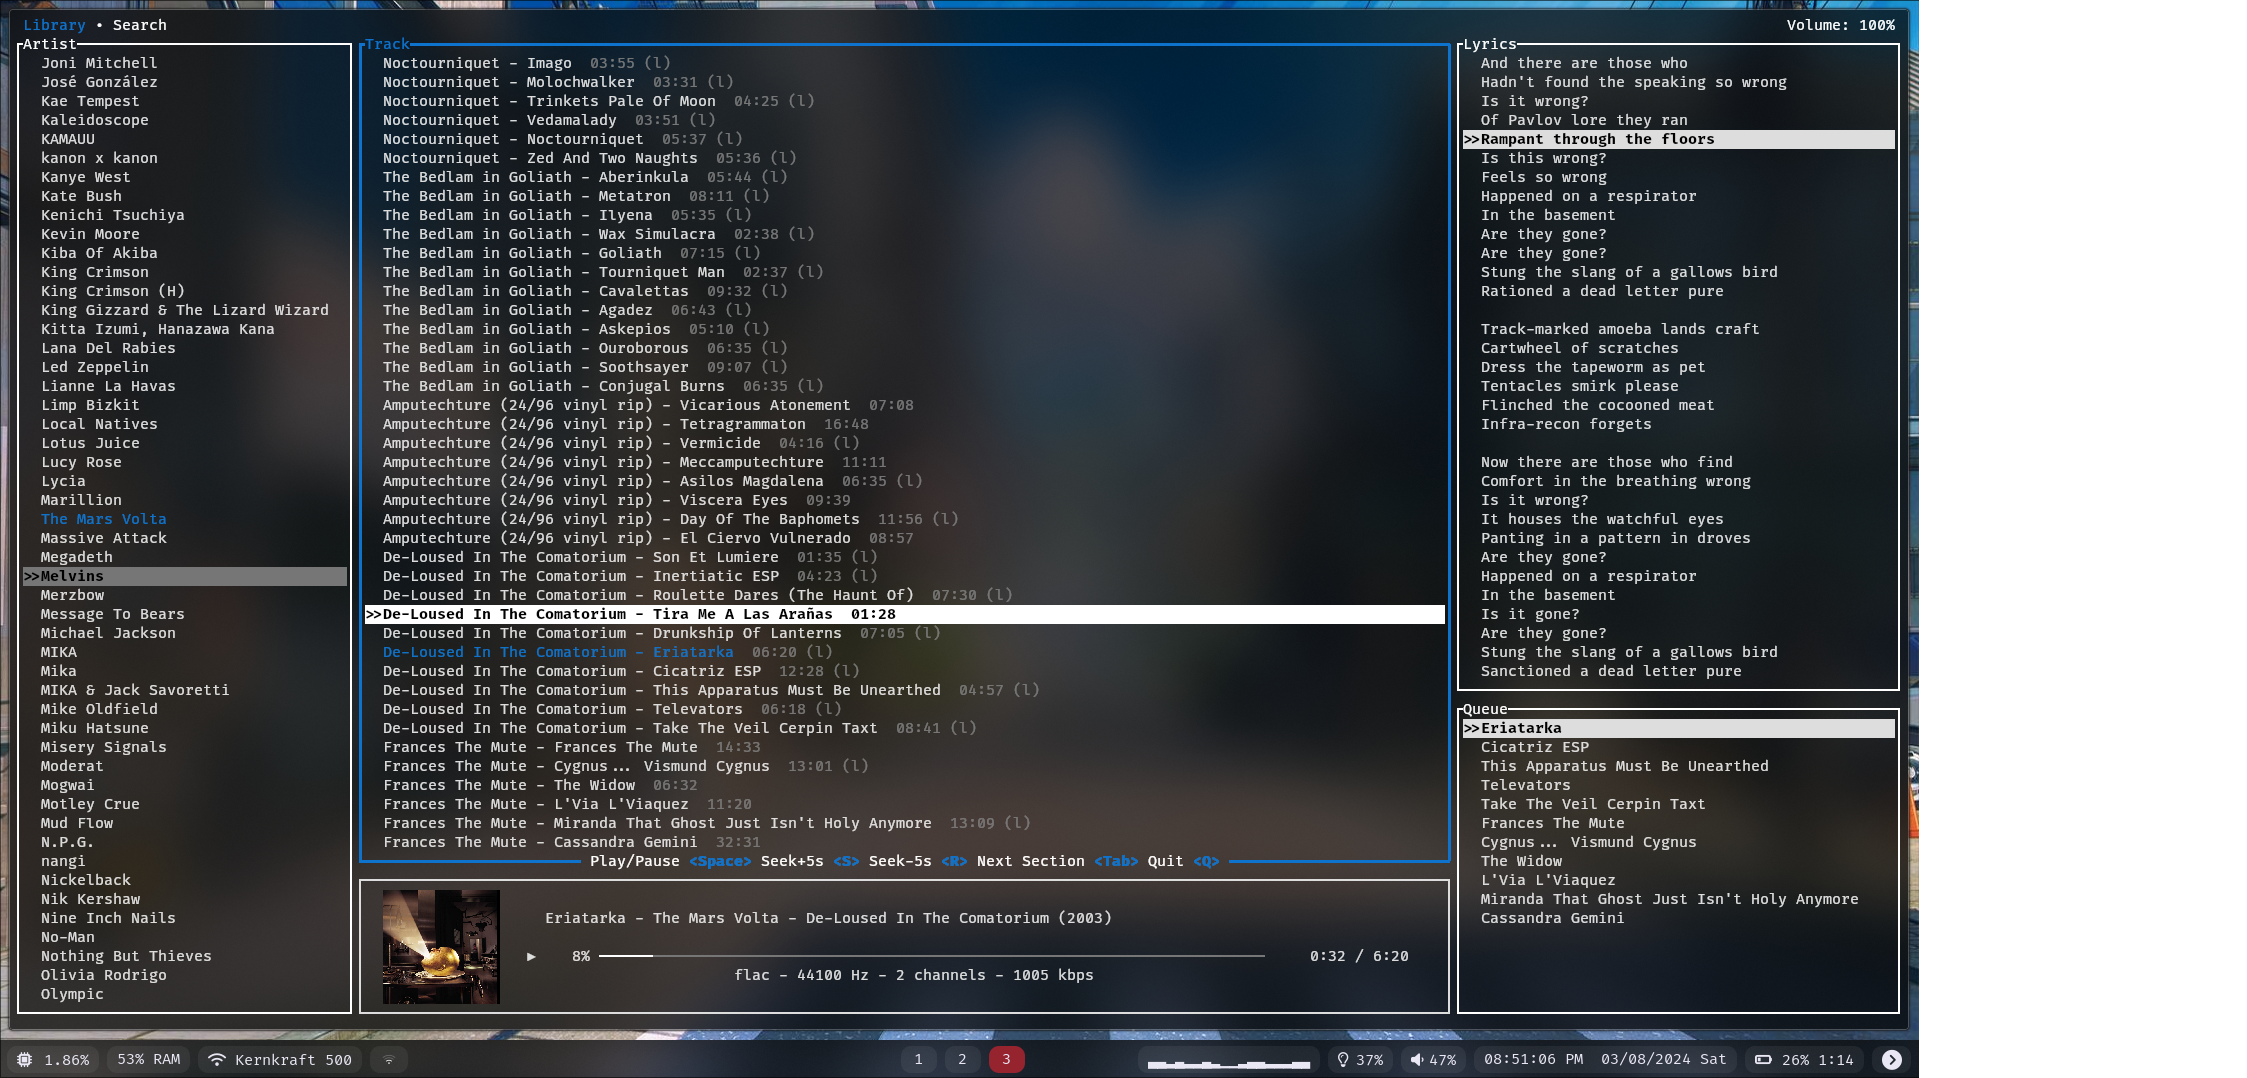
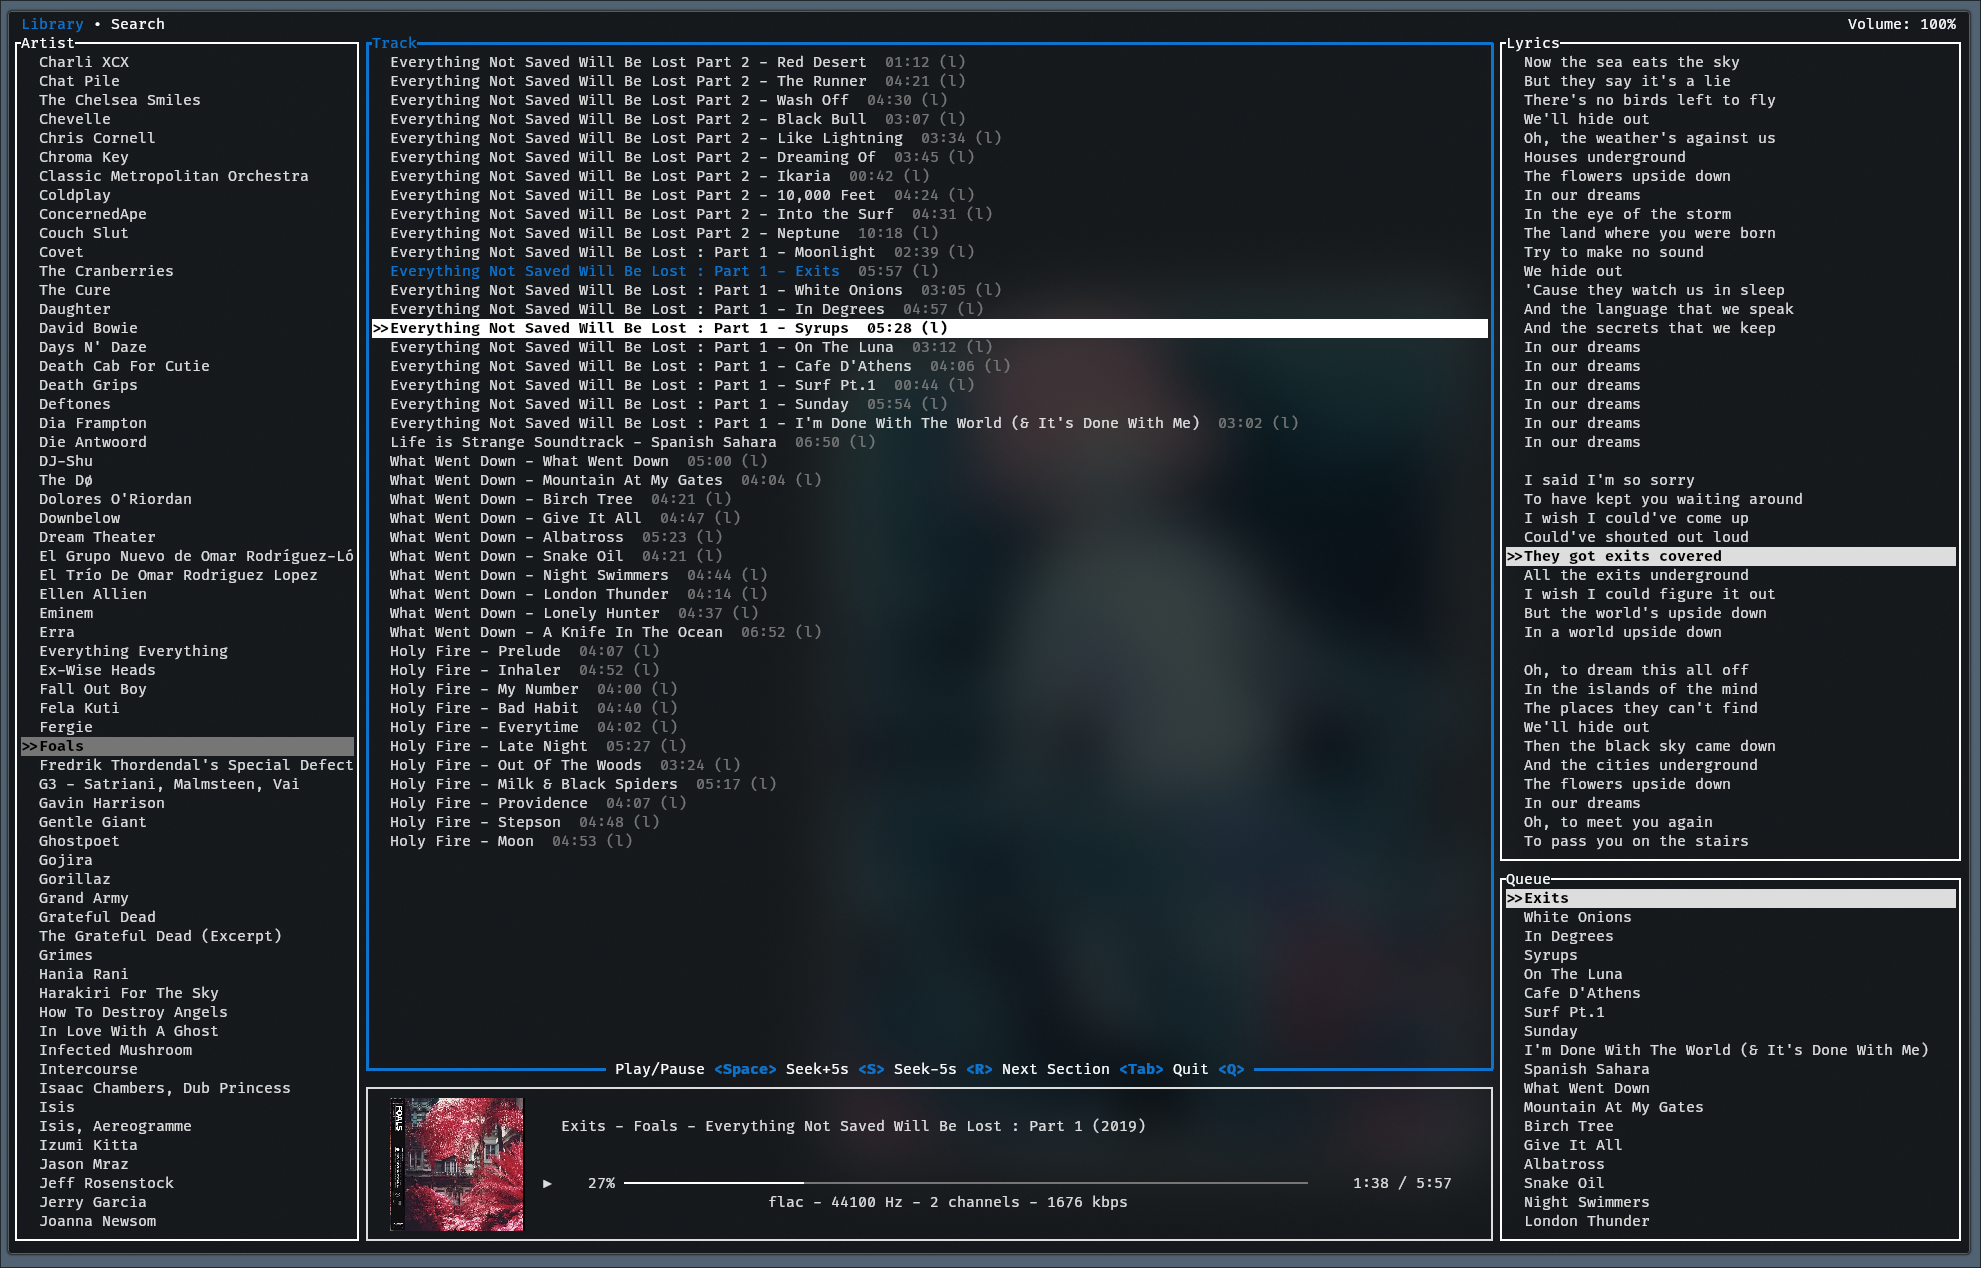
fix: scroll up unsynced lyrics on song change

diff --git a/src/tui.rs b/src/tui.rs
@@ -376,6 +376,8 @@ impl App {
                                     self.lyrics = (String::from(""), vec![], false);
                                 }
                             }
+                            self.selected_lyric.select(None);
+
                             match metadata {
                                 Some(metadata) => {
                                     self.metadata = Some(metadata);

diff --git a/README.md b/README.md
@@ -33,9 +33,14 @@ Jellyfin-tui uses libmpv as the backend for audio playback. You need to have mpv
 #### Linux
 Linux is the main target OS for this project. You can install mpv from your package manager.
 ```bash
-# add ~/.cargo/bin to your PATH if you haven't already
+# add ~/.cargo/bin to your PATH (~/.bashrc etc.) if you haven't already
 export PATH=$PATH:~/.cargo/bin/
 
+# install mpv
+sudo pacman -S mpv # arch
+sudo apt install mpv libmpv-dev # ubuntu
+
+# clone and run
 git clone https://github.com/dhonus/jellyfin-tui
 cd jellyfin-tui
 cargo run --release
